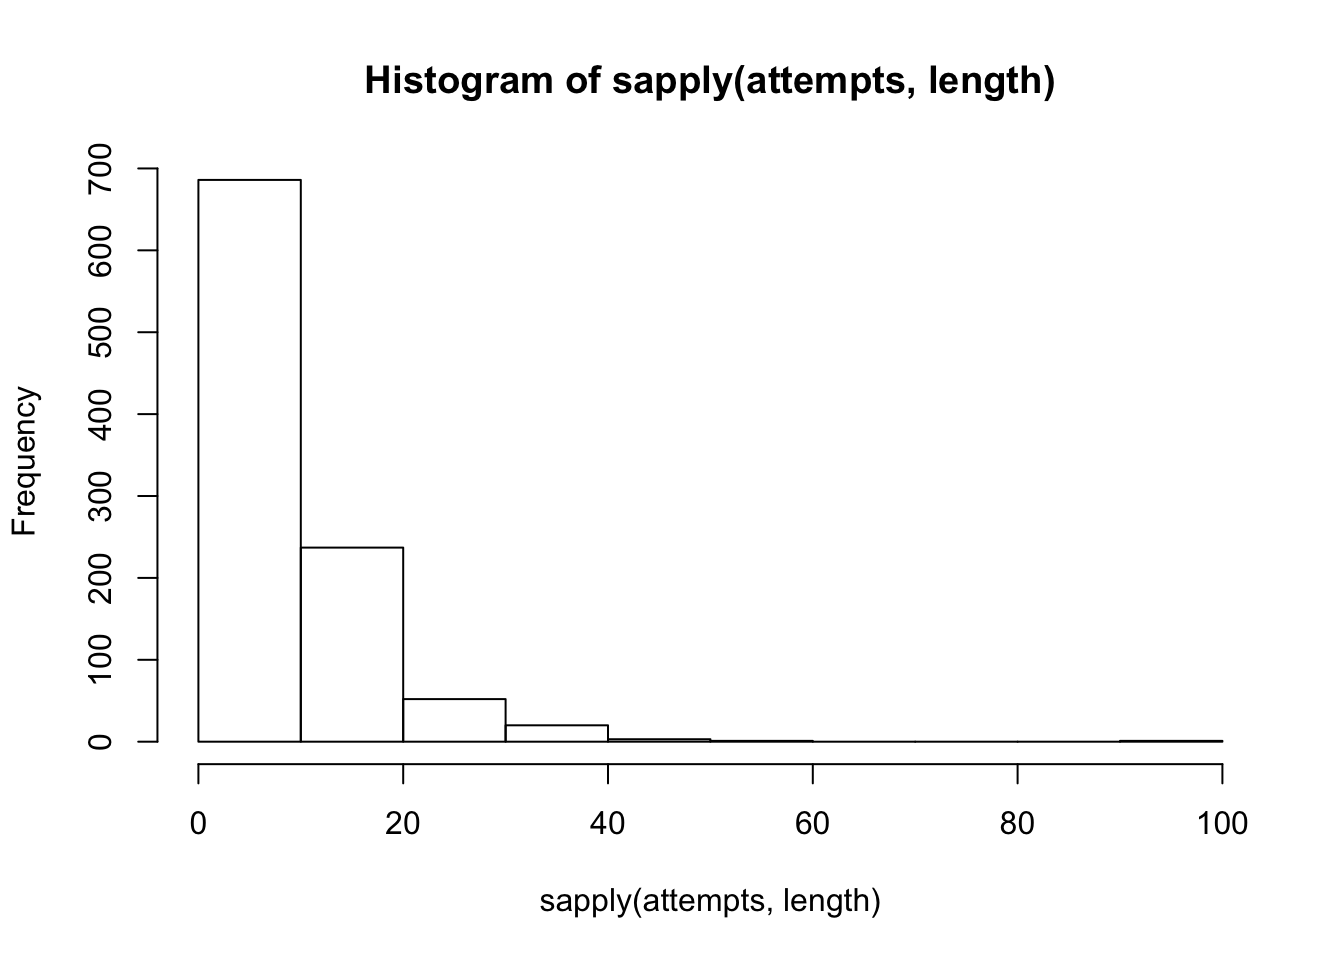
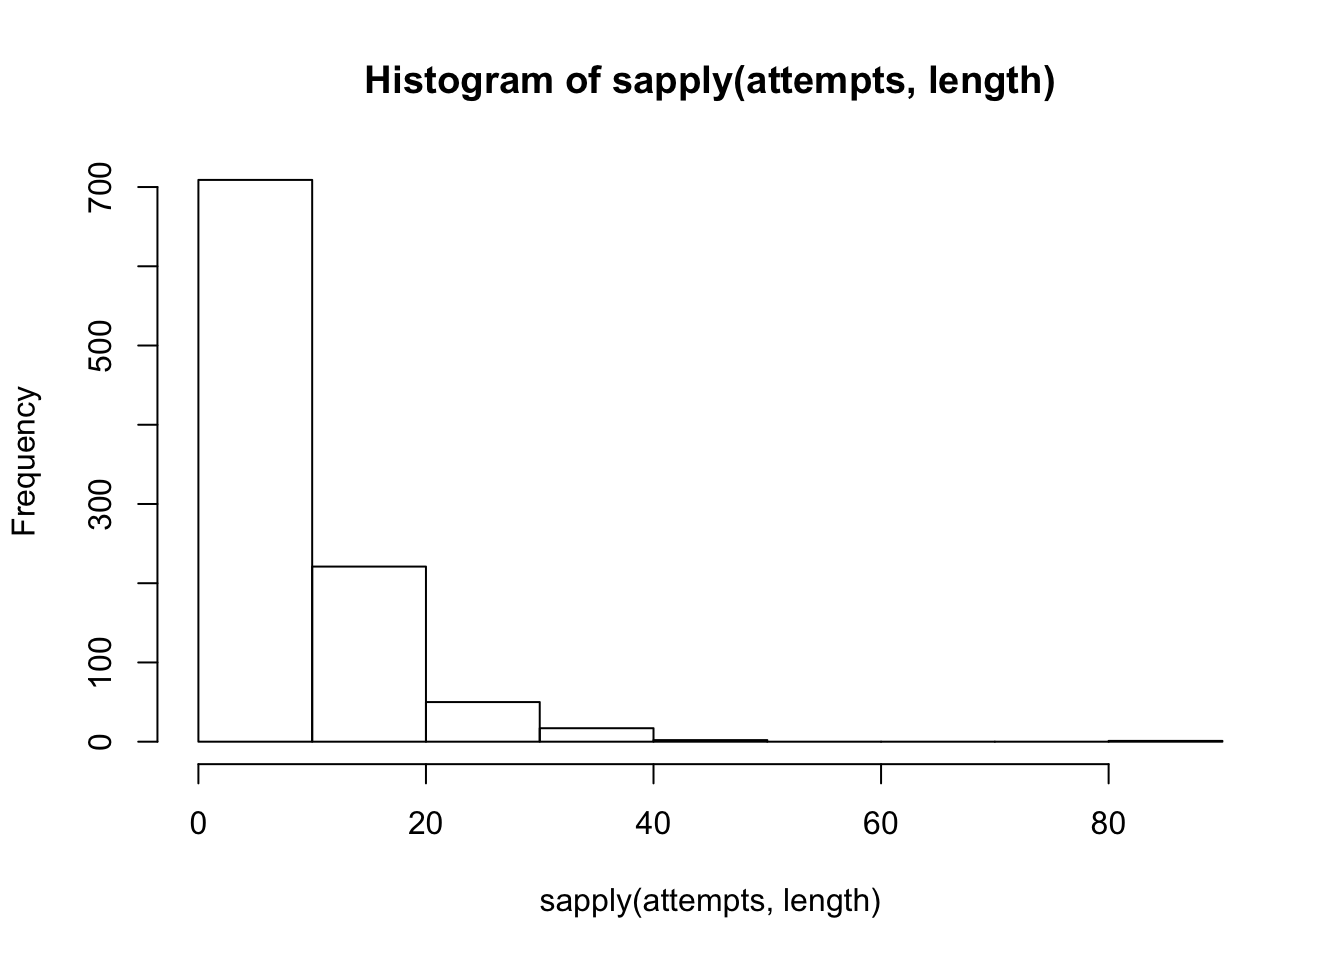
New blog post

diff --git a/content/blog/2017-03-08-my-pisa-twitter-bot/2017-03-08-my-pisa-twitter-bot.html b/content/blog/2017-03-08-my-pisa-twitter-bot/2017-03-08-my-pisa-twitter-bot.html
@@ -116,17 +116,17 @@ write_lines(new_var, path = &quot;./all_variables.txt&quot;, append = T)
   pisa.table(var_name, data = ., by = &quot;cnt&quot;) %&gt;%
   filter(complete.cases(.))</code></pre>
 <p>Let’s check out the contents of <code>try_df</code>:</p>
-<pre><code>##          cnt st123q03na Freq Percentage Std.err.
-## 1  Australia          1  327       2.34        0
-## 2  Australia          2  962       6.90        0
-## 3  Australia          3 5681      40.73        0
-## 4  Australia          4 6979      50.03        0
-## 5    Austria          1  151       2.18        0
-## 6    Austria          2  391       5.65        0
-## 7    Austria          3 1532      22.13        0
-## 8    Austria          4 4849      70.04        0
-## 9    Belgium          1  168       1.82        0
-## 10   Belgium          2  568       6.15        0</code></pre>
+<pre><code>##          cnt ec015q08na Freq Percentage Std.err.
+## 1  Australia          1 4750      84.15        0
+## 2  Australia          2  895      15.85        0
+## 3    Belgium          1 1204      88.53        0
+## 4    Belgium          2  156      11.47        0
+## 5   Bulgaria          1 2850      77.01        0
+## 6   Bulgaria          2  851      22.99        0
+## 7    Croatia          1 2232      82.30        0
+## 8    Croatia          2  480      17.70        0
+## 9    Denmark          1  897      81.99        0
+## 10   Denmark          2  197      18.01        0</code></pre>
 <p>Great! To finish with the data, we simply need one more thing: to recode the value labels with the <code>labels</code> vector.</p>
 <pre class="r"><code>try_df[var_name] &lt;- labels[try_df[, var_name]]</code></pre>
 <p>Awesome. We have the data ready, more or less. Let’s produce a dirty plot to check how long the title is.</p>

diff --git a/public/blog/2017-03-08-my-pisa-twitter-bot/my-pisa-twitter-bot/index.html b/public/blog/2017-03-08-my-pisa-twitter-bot/my-pisa-twitter-bot/index.html
@@ -178,17 +178,17 @@ write_lines(new_var, path = &quot;./all_variables.txt&quot;, append = T)
   pisa.table(var_name, data = ., by = &quot;cnt&quot;) %&gt;%
   filter(complete.cases(.))</code></pre>
 <p>Let’s check out the contents of <code>try_df</code>:</p>
-<pre><code>##          cnt st123q03na Freq Percentage Std.err.
-## 1  Australia          1  327       2.34        0
-## 2  Australia          2  962       6.90        0
-## 3  Australia          3 5681      40.73        0
-## 4  Australia          4 6979      50.03        0
-## 5    Austria          1  151       2.18        0
-## 6    Austria          2  391       5.65        0
-## 7    Austria          3 1532      22.13        0
-## 8    Austria          4 4849      70.04        0
-## 9    Belgium          1  168       1.82        0
-## 10   Belgium          2  568       6.15        0</code></pre>
+<pre><code>##          cnt ec015q08na Freq Percentage Std.err.
+## 1  Australia          1 4750      84.15        0
+## 2  Australia          2  895      15.85        0
+## 3    Belgium          1 1204      88.53        0
+## 4    Belgium          2  156      11.47        0
+## 5   Bulgaria          1 2850      77.01        0
+## 6   Bulgaria          2  851      22.99        0
+## 7    Croatia          1 2232      82.30        0
+## 8    Croatia          2  480      17.70        0
+## 9    Denmark          1  897      81.99        0
+## 10   Denmark          2  197      18.01        0</code></pre>
 <p>Great! To finish with the data, we simply need one more thing: to recode the value labels with the <code>labels</code> vector.</p>
 <pre class="r"><code>try_df[var_name] &lt;- labels[try_df[, var_name]]</code></pre>
 <p>Awesome. We have the data ready, more or less. Let’s produce a dirty plot to check how long the title is.</p>

diff --git a/content/blog/2016-09-13-simulations-and-model-predictions-in-r/2016-09-13-simulations-and-model-predictions-in-r.html b/content/blog/2016-09-13-simulations-and-model-predictions-in-r/2016-09-13-simulations-and-model-predictions-in-r.html
@@ -37,16 +37,16 @@ return(vec)
 # shots in a row.</code></pre>
 <pre class="r"><code># test
 thrower(0.6)</code></pre>
-<pre><code>## [1] 0 0</code></pre>
+<pre><code>## [1] 1 1 1 1 0 0</code></pre>
 <pre class="r"><code># 0 1 0 1 0 0
 # Last two elements are always zero</code></pre>
 <pre class="r"><code># b)
 attempts &lt;- replicate(1000, thrower(0.60))
 mean(sapply(attempts, length)) </code></pre>
-<pre><code>## [1] 9.242</code></pre>
+<pre><code>## [1] 8.75</code></pre>
 <pre class="r"><code># mean number of shots until two shots are missed in a row</code></pre>
 <pre class="r"><code>sd(sapply(attempts, length)) </code></pre>
-<pre><code>## [1] 8.038411</code></pre>
+<pre><code>## [1] 7.417852</code></pre>
 <pre class="r"><code># standard deviation of shots made
 # until two shots are missed in a row</code></pre>
 <pre class="r"><code>hist(sapply(attempts, length)) # distribution of shots made</code></pre>

diff --git a/public/blog/2016-09-13-simulations-and-model-predictions-in-r/simulations-and-model-predictions-in-r/index.html b/public/blog/2016-09-13-simulations-and-model-predictions-in-r/simulations-and-model-predictions-in-r/index.html
@@ -99,16 +99,16 @@ return(vec)
 # shots in a row.</code></pre>
 <pre class="r"><code># test
 thrower(0.6)</code></pre>
-<pre><code>## [1] 0 0</code></pre>
+<pre><code>## [1] 1 1 1 1 0 0</code></pre>
 <pre class="r"><code># 0 1 0 1 0 0
 # Last two elements are always zero</code></pre>
 <pre class="r"><code># b)
 attempts &lt;- replicate(1000, thrower(0.60))
 mean(sapply(attempts, length)) </code></pre>
-<pre><code>## [1] 9.242</code></pre>
+<pre><code>## [1] 8.75</code></pre>
 <pre class="r"><code># mean number of shots until two shots are missed in a row</code></pre>
 <pre class="r"><code>sd(sapply(attempts, length)) </code></pre>
-<pre><code>## [1] 8.038411</code></pre>
+<pre><code>## [1] 7.417852</code></pre>
 <pre class="r"><code># standard deviation of shots made
 # until two shots are missed in a row</code></pre>
 <pre class="r"><code>hist(sapply(attempts, length)) # distribution of shots made</code></pre>

diff --git a/content/blog/2016-11-06-multilevel-modeling--part-2/2016-11-06-multilevel-modeling--part-2.html b/content/blog/2016-11-06-multilevel-modeling--part-2/2016-11-06-multilevel-modeling--part-2.html
@@ -23,8 +23,10 @@ tags: ['R', 'multilevel', 'gelman']
 cd4 &lt;- read.csv(&quot;http://www.stat.columbia.edu/~gelman/arm/examples/cd4/allvar.csv&quot;)
 
 # Let&#39;s recreate the model from 12.2 (b)
-cd4$VDATE &lt;- as.Date(cd4$VDATE, format = &quot;%m/%d/%Y&quot;)
-mod2 &lt;- lmer(CD4PCT ~ VDATE + treatmnt + baseage + (1 | newpid), data = cd4)</code></pre>
+cd4$VDATE &lt;- as.Date(cd4$VDATE, format = &quot;%m/%d/%Y&quot;)</code></pre>
+<pre><code>## Warning in strptime(x, format, tz = &quot;GMT&quot;): unknown timezone &#39;default/
+## Europe/Madrid&#39;</code></pre>
+<pre class="r"><code>mod2 &lt;- lmer(CD4PCT ~ VDATE + treatmnt + baseage + (1 | newpid), data = cd4)</code></pre>
 <ol style="list-style-type: lower-alpha">
 <li>Use the model fit from Exercise 12.2 (b) to generate simulation of predicted CD4 percentages for each child in the dataset at a hypothetical next time point.</li>
 </ol>

diff --git a/public/blog/2016-11-06-multilevel-modeling--part-2/multilevel-modeling--part-2/index.html b/public/blog/2016-11-06-multilevel-modeling--part-2/multilevel-modeling--part-2/index.html
@@ -85,8 +85,10 @@ hljs.initHighlightingOnLoad();
 cd4 &lt;- read.csv(&quot;http://www.stat.columbia.edu/~gelman/arm/examples/cd4/allvar.csv&quot;)
 
 # Let&#39;s recreate the model from 12.2 (b)
-cd4$VDATE &lt;- as.Date(cd4$VDATE, format = &quot;%m/%d/%Y&quot;)
-mod2 &lt;- lmer(CD4PCT ~ VDATE + treatmnt + baseage + (1 | newpid), data = cd4)</code></pre>
+cd4$VDATE &lt;- as.Date(cd4$VDATE, format = &quot;%m/%d/%Y&quot;)</code></pre>
+<pre><code>## Warning in strptime(x, format, tz = &quot;GMT&quot;): unknown timezone &#39;default/
+## Europe/Madrid&#39;</code></pre>
+<pre class="r"><code>mod2 &lt;- lmer(CD4PCT ~ VDATE + treatmnt + baseage + (1 | newpid), data = cd4)</code></pre>
 <ol style="list-style-type: lower-alpha">
 <li>Use the model fit from Exercise 12.2 (b) to generate simulation of predicted CD4 percentages for each child in the dataset at a hypothetical next time point.</li>
 </ol>

diff --git a/content/blog/2016-11-06-multilevel-modeling--part-1/2016-11-06-multilevel-modeling--part-1.html b/content/blog/2016-11-06-multilevel-modeling--part-1/2016-11-06-multilevel-modeling--part-1.html
@@ -32,9 +32,10 @@ head(cd4)</code></pre>
 ## 5    13      1 11/30/1989      13   0 5.330833        1    626    3.91
 ## 6    16      1                 NA  NA       NA        1    220    3.91</code></pre>
 <pre class="r"><code># Let&#39;s transform the VDATE variable into date format
-cd4$VDATE &lt;- as.Date(cd4$VDATE, format = &quot;%m/%d/%Y&quot;)
-
-mod1 &lt;- lmer(CD4PCT ~
+cd4$VDATE &lt;- as.Date(cd4$VDATE, format = &quot;%m/%d/%Y&quot;)</code></pre>
+<pre><code>## Warning in strptime(x, format, tz = &quot;GMT&quot;): unknown timezone &#39;default/
+## Europe/Madrid&#39;</code></pre>
+<pre class="r"><code>mod1 &lt;- lmer(CD4PCT ~
                VDATE +
                (1 | newpid),
              data = subset(cd4, !is.na(treatmnt) &amp; !is.na(baseage)))

diff --git a/public/blog/2016-11-06-multilevel-modeling--part-1/multilevel-modeling--part-1/index.html b/public/blog/2016-11-06-multilevel-modeling--part-1/multilevel-modeling--part-1/index.html
@@ -94,9 +94,10 @@ head(cd4)</code></pre>
 ## 5    13      1 11/30/1989      13   0 5.330833        1    626    3.91
 ## 6    16      1                 NA  NA       NA        1    220    3.91</code></pre>
 <pre class="r"><code># Let&#39;s transform the VDATE variable into date format
-cd4$VDATE &lt;- as.Date(cd4$VDATE, format = &quot;%m/%d/%Y&quot;)
-
-mod1 &lt;- lmer(CD4PCT ~
+cd4$VDATE &lt;- as.Date(cd4$VDATE, format = &quot;%m/%d/%Y&quot;)</code></pre>
+<pre><code>## Warning in strptime(x, format, tz = &quot;GMT&quot;): unknown timezone &#39;default/
+## Europe/Madrid&#39;</code></pre>
+<pre class="r"><code>mod1 &lt;- lmer(CD4PCT ~
                VDATE +
                (1 | newpid),
              data = subset(cd4, !is.na(treatmnt) &amp; !is.na(baseage)))

diff --git a/public/blog/2017-08-01-perccalc-package/perccalc-package/index.html b/public/blog/2017-08-01-perccalc-package/perccalc-package/index.html
@@ -122,7 +122,7 @@ dataset_ready &lt;-
 <pre class="r"><code>install.packages(&quot;perccalc&quot;, repo = &quot;https://cran.rediris.es/&quot;)
 ## 
 ## The downloaded binary packages are in
-##  /var/folders/w0/pscnb7zx5y9g_qf13cxhl0_r0000gn/T//RtmpYdxHZM/downloaded_packages
+##  /var/folders/w0/pscnb7zx5y9g_qf13cxhl0_r0000gn/T//RtmpF573KV/downloaded_packages
 library(perccalc)</code></pre>
 <p>The package has two functions, which I’ll show some examples. The first one is called <code>perc_diff</code> and it’s very easy to use, we just specify the data, the name of the categorical and continuous variable and the percentile difference we want.</p>
 <p>Let’s put it to use!</p>

diff --git a/content/blog/2017-08-01-perccalc-package/2017-08-01-perccalc-package.html b/content/blog/2017-08-01-perccalc-package/2017-08-01-perccalc-package.html
@@ -60,7 +60,7 @@ dataset_ready &lt;-
 <pre class="r"><code>install.packages(&quot;perccalc&quot;, repo = &quot;https://cran.rediris.es/&quot;)
 ## 
 ## The downloaded binary packages are in
-##  /var/folders/w0/pscnb7zx5y9g_qf13cxhl0_r0000gn/T//RtmpYdxHZM/downloaded_packages
+##  /var/folders/w0/pscnb7zx5y9g_qf13cxhl0_r0000gn/T//RtmpF573KV/downloaded_packages
 library(perccalc)</code></pre>
 <p>The package has two functions, which I’ll show some examples. The first one is called <code>perc_diff</code> and it’s very easy to use, we just specify the data, the name of the categorical and continuous variable and the percentile difference we want.</p>
 <p>Let’s put it to use!</p>
